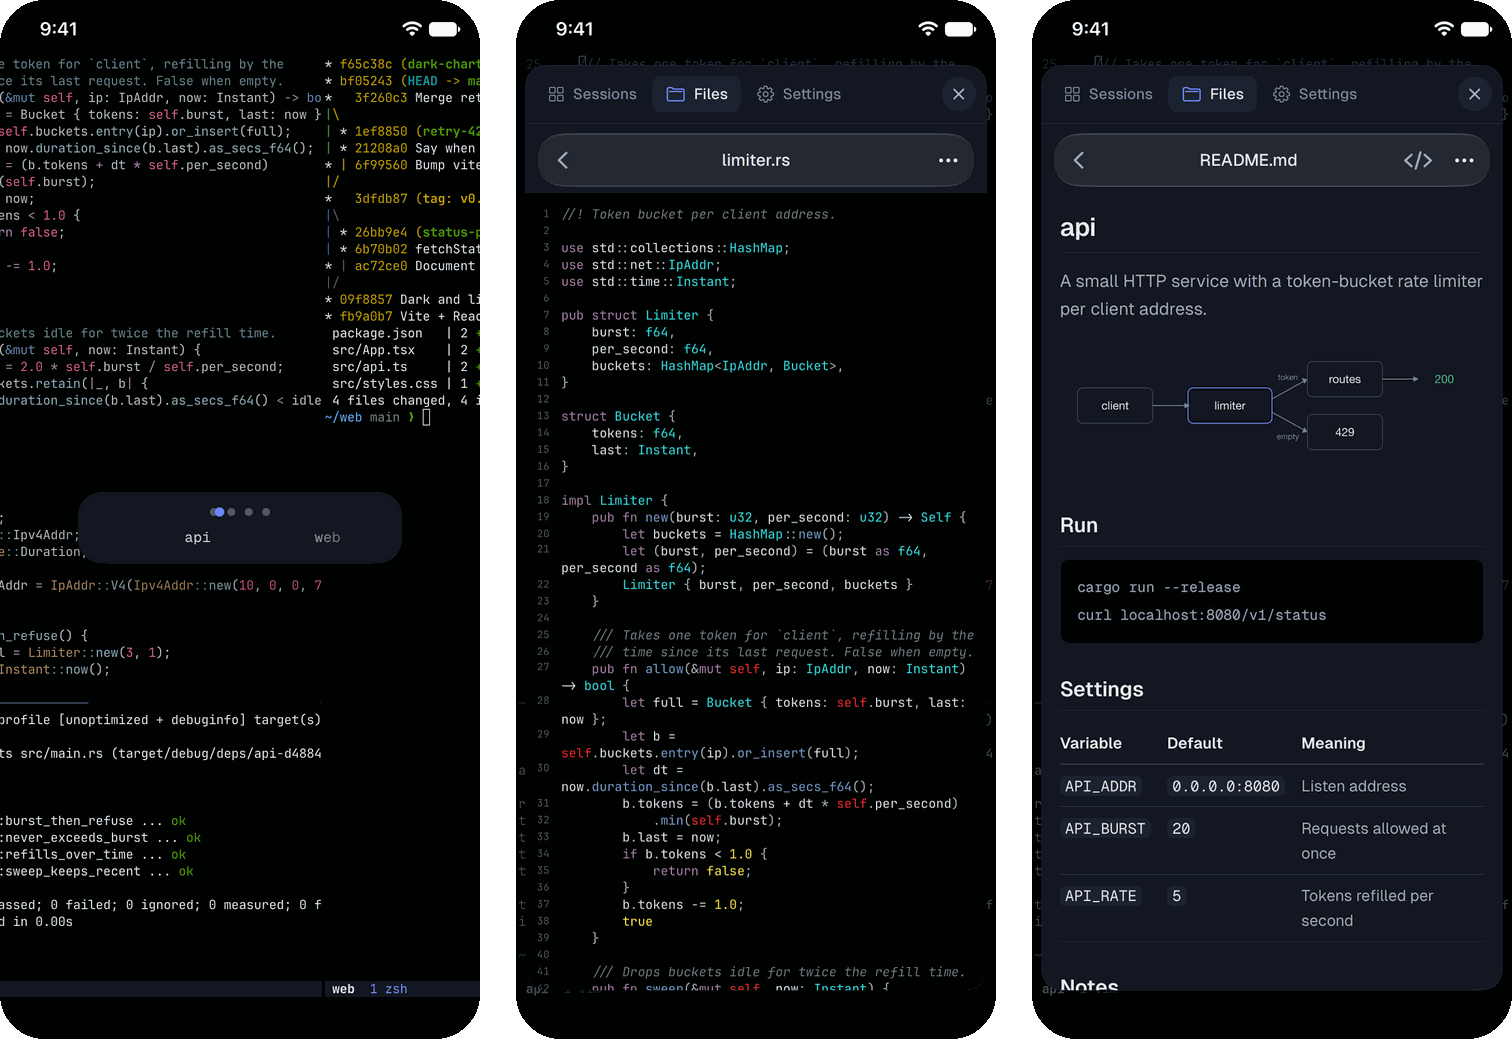
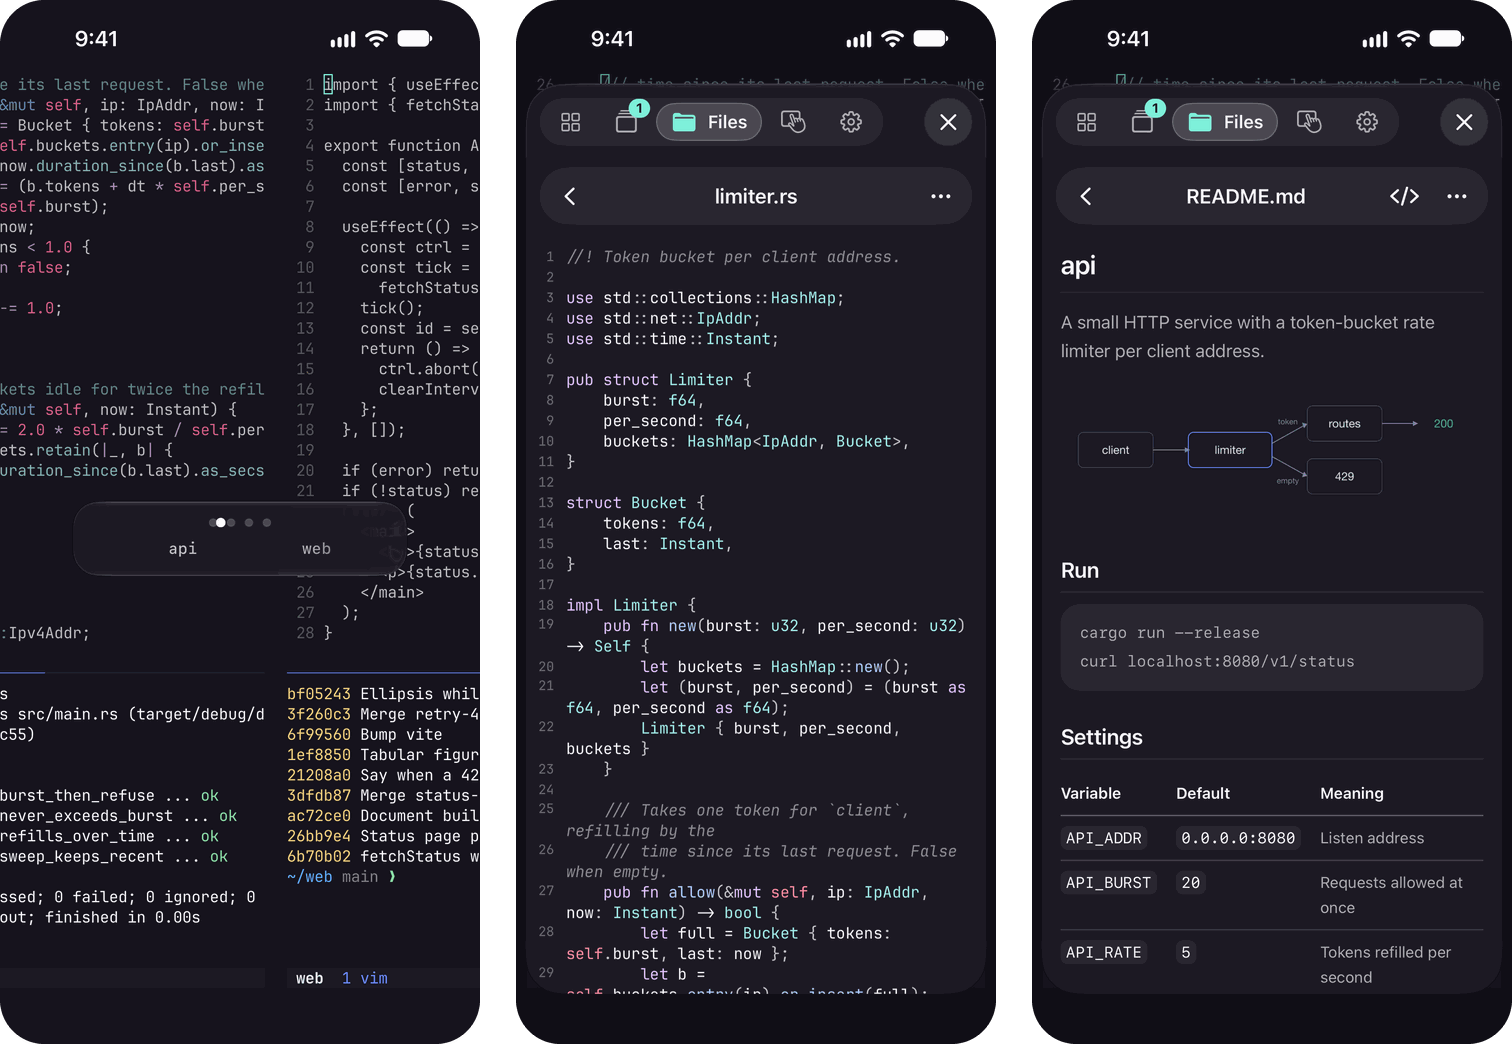
Docs: screenshots show the Sessions tiling
The Sessions page is a tiling of live windows and the menu header is icon tabs,
so the old Sessions and Files panels were out of date. All three strips are
retaken on the iPhone 18 Pro and the Duo's inner display (the tmux tab icon's
count and a tile's Asks you pill show the agent states); alt text follows.

diff --git a/README.md b/README.md
@@ -3,7 +3,7 @@
 Term is a terminal for iPhone. It speaks mosh and SSH, keeps your tmux sessions one swipe away, and lets you work on the remote machine's files without leaving the app.
 
 <p align="center">
-  <img src="docs/screens-terminal.png" alt="Term on iPhone: vim and cargo test in a tmux session, the Sessions overview, and the Files tab in a Rust project">
+  <img src="docs/screens-terminal.png" alt="Term on iPhone: vim and cargo test in a tmux session, the Sessions page tiling four live windows with one agent asking a question, and the Files tab in a Rust project">
 </p>
 
 Term takes [Blink Shell](https://blink.sh) as its model and rebuilds it on [Ghostty](https://ghostty.org)'s terminal engine, with a mosh client written from scratch in Rust.
@@ -28,7 +28,7 @@ Term takes [Blink Shell](https://blink.sh) as its model and rebuilds it on [Ghos
 </p>
 
 <p align="center">
-  <img src="docs/screens-duo.png" alt="Term on the iPhone Duo's inner display: two tmux sessions side by side under the menu dock in the status band, and the Sessions panel opened from the dock">
+  <img src="docs/screens-duo.png" alt="Term on the iPhone Duo's inner display: two tmux sessions side by side under the menu dock in the status band, and the Sessions page opened from the dock, tiling the four open windows">
 </p>
 
 ## How it works
